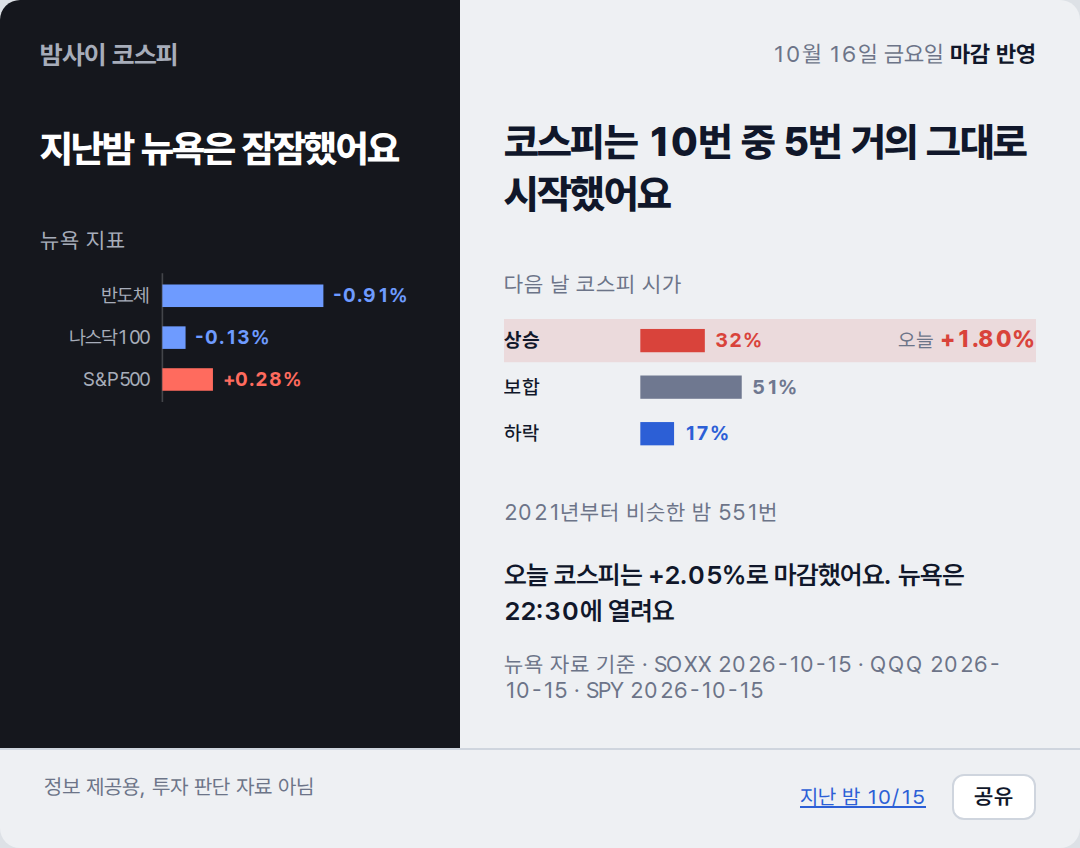
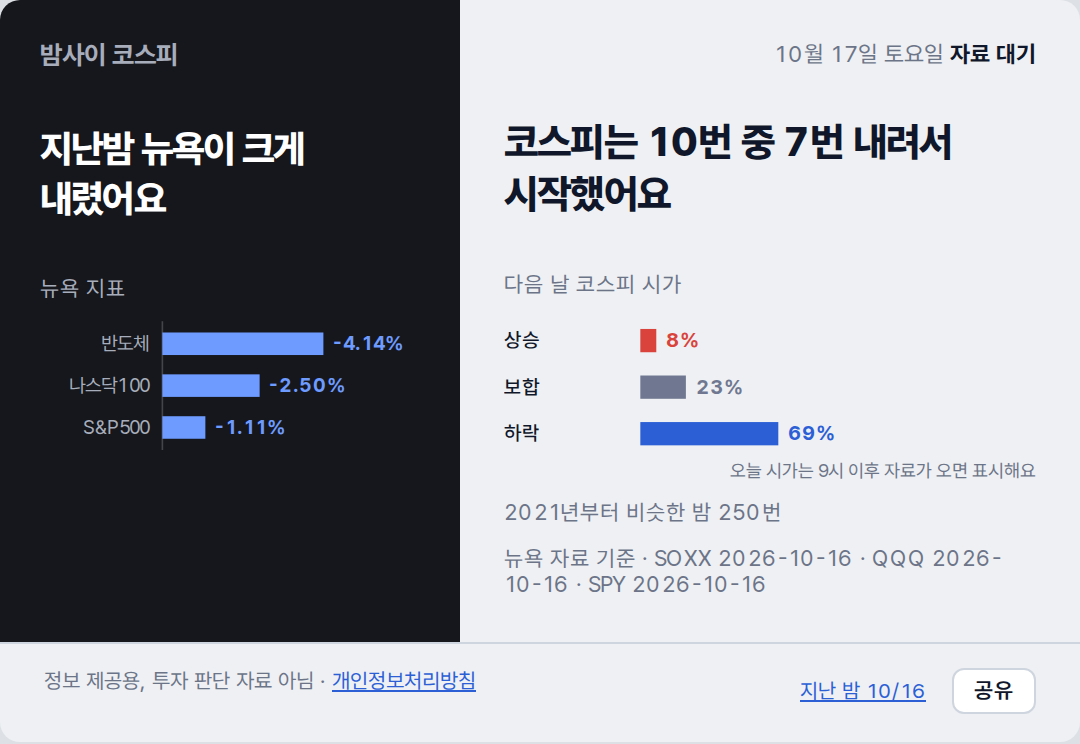
deploy: 17d875c7729dc2f0d9b011abeae76b02e6f46dff

diff --git a/index.html b/index.html
@@ -1,9 +1,10 @@
 <!doctype html><html lang="ko"><head><meta charset="utf-8"><meta name="viewport" content="width=device-width,initial-scale=1">
-<title>밤사이 코스피 · 2026-10-16</title>
+<title>밤사이 코스피 · 2026-10-17</title>
 <meta name="description" content="전일 코스피 마감에서 밤사이 뉴욕을 거쳐 오늘 코스피 시가까지, 한 장.">
-<meta property="og:type" content="article"><meta property="og:site_name" content="밤사이 코스피"><meta property="og:url" content="https://mjs0611.github.io/kospi-relay/2026-10-16/">
-<meta property="og:title" content="지난밤 뉴욕은 잠잠했어요"><meta property="og:description" content="코스피는 10번 중 5번 거의 그대로 시작했어요">
-<meta property="og:image" content="https://mjs0611.github.io/kospi-relay/2026-10-16/relay.png"><meta property="og:image:width" content="1080"><meta name="twitter:card" content="summary_large_image">
+<link rel="canonical" href="https://kospi.ditoaxis.com/2026-10-17/">
+<meta property="og:type" content="article"><meta property="og:site_name" content="밤사이 코스피"><meta property="og:url" content="https://kospi.ditoaxis.com/2026-10-17/">
+<meta property="og:title" content="지난밤 뉴욕이 크게 내렸어요"><meta property="og:description" content="코스피는 10번 중 7번 내려서 시작했어요">
+<meta property="og:image" content="https://kospi.ditoaxis.com/2026-10-17/relay.png"><meta property="og:image:width" content="1080"><meta name="twitter:card" content="summary_large_image">
 <link rel="stylesheet" href="https://cdn.jsdelivr.net/gh/orioncactus/pretendard@v1.3.9/dist/web/variable/pretendardvariable-dynamic-subset.min.css">
 <style>
 /* 밤 / 낮 두 쪽. 왼쪽은 밤사이 뉴욕(어둡게), 오른쪽은 다음 날 코스피 시가(밝게). 경계가 곧 릴레이.
@@ -26,36 +27,35 @@ footer a{color:#2C5FD6}
 .share{margin-left:10px;border:1px solid #CFD5DE;background:#FFF;color:#10172A;border-radius:6px;padding:4px 10px;font:600 11px var(--sans);cursor:pointer}
 @media (max-width:480px){.sheet{grid-template-columns:1fr}.cond{margin-top:18px}.claim{margin-top:4px}}
 </style></head><body><div class="sheet">
-<section class="night"><p class="brand">밤사이 코스피</p><p class="cond">지난밤 뉴욕은 잠잠했어요</p><p class="lab">뉴욕 지표</p><svg viewBox="0 0 236 84" xmlns="http://www.w3.org/2000/svg" font-family="var(--sans)" font-size="12">
+<section class="night"><p class="brand">밤사이 코스피</p><p class="cond">지난밤 뉴욕이 크게 내렸어요</p><p class="lab">뉴욕 지표</p><svg viewBox="0 0 236 84" xmlns="http://www.w3.org/2000/svg" font-family="var(--sans)" font-size="12">
 <line x1="76" y1="2" x2="76" y2="82" stroke="var(--rule)" stroke-width="1"/>
 <text x="68" y="20" text-anchor="end" fill="var(--muted)">반도체</text>
 <rect x="76" y="9" width="100.0" height="14" fill="var(--down)"/>
-<text x="182.0" y="20" fill="var(--down)" font-weight="700">-0.91%</text>
+<text x="182.0" y="20" fill="var(--down)" font-weight="700">-4.14%</text>
 <text x="68" y="46" text-anchor="end" fill="var(--muted)">나스닥100</text>
-<rect x="76" y="35" width="14.4" height="14" fill="var(--down)"/>
-<text x="96.4" y="46" fill="var(--down)" font-weight="700">-0.13%</text>
+<rect x="76" y="35" width="60.4" height="14" fill="var(--down)"/>
+<text x="142.4" y="46" fill="var(--down)" font-weight="700">-2.50%</text>
 <text x="68" y="72" text-anchor="end" fill="var(--muted)">S&P500</text>
-<rect x="76" y="61" width="31.4" height="14" fill="var(--up)"/>
-<text x="113.4" y="72" fill="var(--up)" font-weight="700">+0.28%</text>
+<rect x="76" y="61" width="26.7" height="14" fill="var(--down)"/>
+<text x="108.7" y="72" fill="var(--down)" font-weight="700">-1.11%</text>
 </svg></section>
-<section class="day"><p class="stamp">10월 16일 금요일 <b>마감 반영</b></p><p class="claim">코스피는 10번 중 5번 거의 그대로 시작했어요</p><p class="lab">다음 날 코스피 시가</p><svg viewBox="0 0 320 100" xmlns="http://www.w3.org/2000/svg" font-family="var(--sans)" font-size="12">
-<rect x="0" y="3" width="320" height="26" fill="var(--up)" opacity=".12"/>
-<text x="0" y="20" fill="var(--ink)" font-weight="700">상승</text>
-<rect x="82" y="9" width="38.8" height="14" fill="var(--up)"/>
-<text x="126.8" y="20" fill="var(--up)" font-weight="700">32%</text>
-<text x="320" y="20" text-anchor="end" fill="var(--ink)"><tspan fill="var(--muted)">오늘 </tspan><tspan font-weight="800" font-size="14" fill="var(--up)">+1.80%</tspan></text>
+<section class="day"><p class="stamp">10월 17일 토요일 <b>자료 대기</b></p><p class="claim">코스피는 10번 중 7번 내려서 시작했어요</p><p class="lab">다음 날 코스피 시가</p><svg viewBox="0 0 320 100" xmlns="http://www.w3.org/2000/svg" font-family="var(--sans)" font-size="12">
+<text x="0" y="20" fill="var(--ink)" font-weight="500">상승</text>
+<rect x="82" y="9" width="9.6" height="14" fill="var(--up)"/>
+<text x="97.6" y="20" fill="var(--up)" font-weight="700">8%</text>
 <text x="0" y="48" fill="var(--ink)" font-weight="500">보합</text>
-<rect x="82" y="37" width="61.0" height="14" fill="var(--flat)"/>
-<text x="149.0" y="48" fill="var(--flat)" font-weight="700">51%</text>
+<rect x="82" y="37" width="27.4" height="14" fill="var(--flat)"/>
+<text x="115.4" y="48" fill="var(--flat)" font-weight="700">23%</text>
 <text x="0" y="76" fill="var(--ink)" font-weight="500">하락</text>
-<rect x="82" y="65" width="20.3" height="14" fill="var(--down)"/>
-<text x="108.3" y="76" fill="var(--down)" font-weight="700">17%</text>
-</svg><p class="cap">2021년부터 비슷한 밤 551번</p><p class="tail">오늘 코스피는 +2.05%로 마감했어요. 뉴욕은 22:30에 열려요</p><p class="cap">뉴욕 자료 기준 · SOXX 2026-10-15 · QQQ 2026-10-15 · SPY 2026-10-15</p></section>
-<footer><span>정보 제공용, 투자 판단 자료 아님</span><span style="white-space:nowrap"><a href="./2026-10-15/">지난 밤 10/15</a> <button class="share" type="button">공유</button></span></footer>
+<rect x="82" y="65" width="83.0" height="14" fill="var(--down)"/>
+<text x="171.0" y="76" fill="var(--down)" font-weight="700">69%</text>
+<text x="320" y="98" text-anchor="end" fill="var(--muted)" font-size="11">오늘 시가는 9시 이후 자료가 오면 표시해요</text>
+</svg><p class="cap">2021년부터 비슷한 밤 250번</p><p class="cap">뉴욕 자료 기준 · SOXX 2026-10-16 · QQQ 2026-10-16 · SPY 2026-10-16</p></section>
+<footer><span>정보 제공용, 투자 판단 자료 아님 · <a href="./privacy/">개인정보처리방침</a></span><span style="white-space:nowrap"><a href="./2026-10-16/">지난 밤 10/16</a> <button class="share" type="button">공유</button></span></footer>
 <script>
 /* 공유: Web Share가 있으면 시스템 공유 시트, 없으면 링크 복사. 링크는 이 날짜 페이지(OG 카드 붙음) */
 document.querySelector('.share').addEventListener('click', async function () {
-  var url = 'https://mjs0611.github.io/kospi-relay/2026-10-16/', text = "지난밤 뉴욕은 잠잠했어요. 코스피는 10번 중 5번 거의 그대로 시작했어요";
+  var url = 'https://kospi.ditoaxis.com/2026-10-17/', text = "지난밤 뉴욕이 크게 내렸어요. 코스피는 10번 중 7번 내려서 시작했어요";
   try { if (navigator.share) { await navigator.share({ title: '밤사이 코스피', text: text, url: url }); return; } } catch (e) { if (e && e.name === 'AbortError') return; }
   try { await navigator.clipboard.writeText(text + '\n' + url); this.textContent = '링크 복사됨'; } catch (e) { location.href = url; }
 });

diff --git a/2026-10-17/index.html b/2026-10-17/index.html
@@ -1,0 +1,63 @@
+<!doctype html><html lang="ko"><head><meta charset="utf-8"><meta name="viewport" content="width=device-width,initial-scale=1">
+<title>밤사이 코스피 · 2026-10-17</title>
+<meta name="description" content="전일 코스피 마감에서 밤사이 뉴욕을 거쳐 오늘 코스피 시가까지, 한 장.">
+<link rel="canonical" href="https://kospi.ditoaxis.com/2026-10-17/">
+<meta property="og:type" content="article"><meta property="og:site_name" content="밤사이 코스피"><meta property="og:url" content="https://kospi.ditoaxis.com/2026-10-17/">
+<meta property="og:title" content="지난밤 뉴욕이 크게 내렸어요"><meta property="og:description" content="코스피는 10번 중 7번 내려서 시작했어요">
+<meta property="og:image" content="https://kospi.ditoaxis.com/2026-10-17/relay.png"><meta property="og:image:width" content="1080"><meta name="twitter:card" content="summary_large_image">
+<link rel="stylesheet" href="https://cdn.jsdelivr.net/gh/orioncactus/pretendard@v1.3.9/dist/web/variable/pretendardvariable-dynamic-subset.min.css">
+<style>
+/* 밤 / 낮 두 쪽. 왼쪽은 밤사이 뉴욕(어둡게), 오른쪽은 다음 날 코스피 시가(밝게). 경계가 곧 릴레이.
+   채도는 상승 빨강·하락 파랑뿐. 그라디언트·그림자·글로우·모노 폰트 없음. 폰트는 Pretendard 하나, 숫자는 tnum. */
+:root{--sans:"Pretendard Variable",Pretendard,-apple-system,"Apple SD Gothic Neo","Noto Sans KR",sans-serif}
+*{box-sizing:border-box}html,body{margin:0;background:#DDE1E6;font-family:var(--sans);word-break:keep-all;font-variant-numeric:tabular-nums}
+.sheet{width:540px;max-width:100%;margin:0 auto;display:grid;grid-template-columns:230px 1fr;border-radius:10px;overflow:hidden;background:#EEF0F3}
+.night{background:#15171D;color:#FFF;padding:20px 20px 22px;--ink:#FFF;--muted:#A7ADBA;--up:#FF6B5E;--down:#6E9BFF;--flat:#9AA3B5;--rule:rgba(255,255,255,.2)}
+.day{padding:20px 22px 22px;color:#10172A;--ink:#10172A;--muted:#6C7488;--up:#D9433B;--down:#2C5FD6;--flat:#6F7890;--rule:#CFD5DE}
+.brand{font-size:13px;font-weight:700;color:var(--muted);margin:0}
+.stamp{font-size:11.5px;color:var(--muted);text-align:right;margin:0}.stamp b{color:var(--ink)}
+.cond{font-size:19px;font-weight:800;letter-spacing:-.02em;line-height:1.3;margin:28px 0 0}
+.claim{font-size:20px;font-weight:800;letter-spacing:-.02em;line-height:1.3;margin:24px 0 0}
+.lab{font-size:11px;color:var(--muted);margin:26px 0 8px}
+svg{width:100%;height:auto;display:block}
+.cap{font-size:11px;color:var(--muted);margin:10px 0 0}
+.tail{font-size:13px;font-weight:600;line-height:1.4;margin:16px 0 0}
+footer{grid-column:1/-1;display:flex;justify-content:space-between;gap:12px;padding:12px 22px 14px;border-top:1px solid #CFD5DE;font-size:10.5px;color:#6C7488}
+footer a{color:#2C5FD6}
+.share{margin-left:10px;border:1px solid #CFD5DE;background:#FFF;color:#10172A;border-radius:6px;padding:4px 10px;font:600 11px var(--sans);cursor:pointer}
+@media (max-width:480px){.sheet{grid-template-columns:1fr}.cond{margin-top:18px}.claim{margin-top:4px}}
+</style></head><body><div class="sheet">
+<section class="night"><p class="brand">밤사이 코스피</p><p class="cond">지난밤 뉴욕이 크게 내렸어요</p><p class="lab">뉴욕 지표</p><svg viewBox="0 0 236 84" xmlns="http://www.w3.org/2000/svg" font-family="var(--sans)" font-size="12">
+<line x1="76" y1="2" x2="76" y2="82" stroke="var(--rule)" stroke-width="1"/>
+<text x="68" y="20" text-anchor="end" fill="var(--muted)">반도체</text>
+<rect x="76" y="9" width="100.0" height="14" fill="var(--down)"/>
+<text x="182.0" y="20" fill="var(--down)" font-weight="700">-4.14%</text>
+<text x="68" y="46" text-anchor="end" fill="var(--muted)">나스닥100</text>
+<rect x="76" y="35" width="60.4" height="14" fill="var(--down)"/>
+<text x="142.4" y="46" fill="var(--down)" font-weight="700">-2.50%</text>
+<text x="68" y="72" text-anchor="end" fill="var(--muted)">S&P500</text>
+<rect x="76" y="61" width="26.7" height="14" fill="var(--down)"/>
+<text x="108.7" y="72" fill="var(--down)" font-weight="700">-1.11%</text>
+</svg></section>
+<section class="day"><p class="stamp">10월 17일 토요일 <b>자료 대기</b></p><p class="claim">코스피는 10번 중 7번 내려서 시작했어요</p><p class="lab">다음 날 코스피 시가</p><svg viewBox="0 0 320 100" xmlns="http://www.w3.org/2000/svg" font-family="var(--sans)" font-size="12">
+<text x="0" y="20" fill="var(--ink)" font-weight="500">상승</text>
+<rect x="82" y="9" width="9.6" height="14" fill="var(--up)"/>
+<text x="97.6" y="20" fill="var(--up)" font-weight="700">8%</text>
+<text x="0" y="48" fill="var(--ink)" font-weight="500">보합</text>
+<rect x="82" y="37" width="27.4" height="14" fill="var(--flat)"/>
+<text x="115.4" y="48" fill="var(--flat)" font-weight="700">23%</text>
+<text x="0" y="76" fill="var(--ink)" font-weight="500">하락</text>
+<rect x="82" y="65" width="83.0" height="14" fill="var(--down)"/>
+<text x="171.0" y="76" fill="var(--down)" font-weight="700">69%</text>
+<text x="320" y="98" text-anchor="end" fill="var(--muted)" font-size="11">오늘 시가는 9시 이후 자료가 오면 표시해요</text>
+</svg><p class="cap">2021년부터 비슷한 밤 250번</p><p class="cap">뉴욕 자료 기준 · SOXX 2026-10-16 · QQQ 2026-10-16 · SPY 2026-10-16</p></section>
+<footer><span>정보 제공용, 투자 판단 자료 아님 · <a href="../privacy/">개인정보처리방침</a></span><span style="white-space:nowrap"><a href="../2026-10-16/">지난 밤 10/16</a> <button class="share" type="button">공유</button></span></footer>
+<script>
+/* 공유: Web Share가 있으면 시스템 공유 시트, 없으면 링크 복사. 링크는 이 날짜 페이지(OG 카드 붙음) */
+document.querySelector('.share').addEventListener('click', async function () {
+  var url = 'https://kospi.ditoaxis.com/2026-10-17/', text = "지난밤 뉴욕이 크게 내렸어요. 코스피는 10번 중 7번 내려서 시작했어요";
+  try { if (navigator.share) { await navigator.share({ title: '밤사이 코스피', text: text, url: url }); return; } } catch (e) { if (e && e.name === 'AbortError') return; }
+  try { await navigator.clipboard.writeText(text + '\n' + url); this.textContent = '링크 복사됨'; } catch (e) { location.href = url; }
+});
+</script>
+</div></body></html>

diff --git a/privacy/index.html b/privacy/index.html
@@ -1,0 +1,10 @@
+<!doctype html><html lang="ko"><head><meta charset="utf-8"><meta name="viewport" content="width=device-width,initial-scale=1">
+<title>개인정보처리방침 · 밤사이 코스피</title><style>body{font:15px/1.7 -apple-system,"Apple SD Gothic Neo",sans-serif;max-width:640px;margin:0 auto;padding:24px 16px;color:#10172A;background:#FFF}h1{font-size:20px}h2{font-size:16px;margin-top:28px}</style></head><body>
+<h1>개인정보처리방침</h1>
+<p>디토엑시스(이하 "운영자")는 밤사이 코스피 웹사이트에서 회원가입이나 개인정보 입력을 받지 않습니다.</p>
+<h2>광고와 쿠키</h2>
+<p>이 사이트는 Google AdSense 광고를 게재할 수 있습니다. Google을 비롯한 제3자 공급업체는 쿠키를 사용해 사용자가 이 사이트나 다른 웹사이트를 방문한 기록을 바탕으로 광고를 게재합니다. 사용자는 <a href="https://adssettings.google.com">Google 광고 설정</a>에서 맞춤 광고를 끌 수 있습니다. 자세한 내용은 <a href="https://policies.google.com/technologies/ads">Google 광고 정책</a>을 참고하십시오.</p>
+<h2>문의</h2>
+<p>디토엑시스 · help.ditoaxis@gmail.com</p>
+<p><a href="../">밤사이 코스피로 돌아가기</a></p>
+</body></html>
